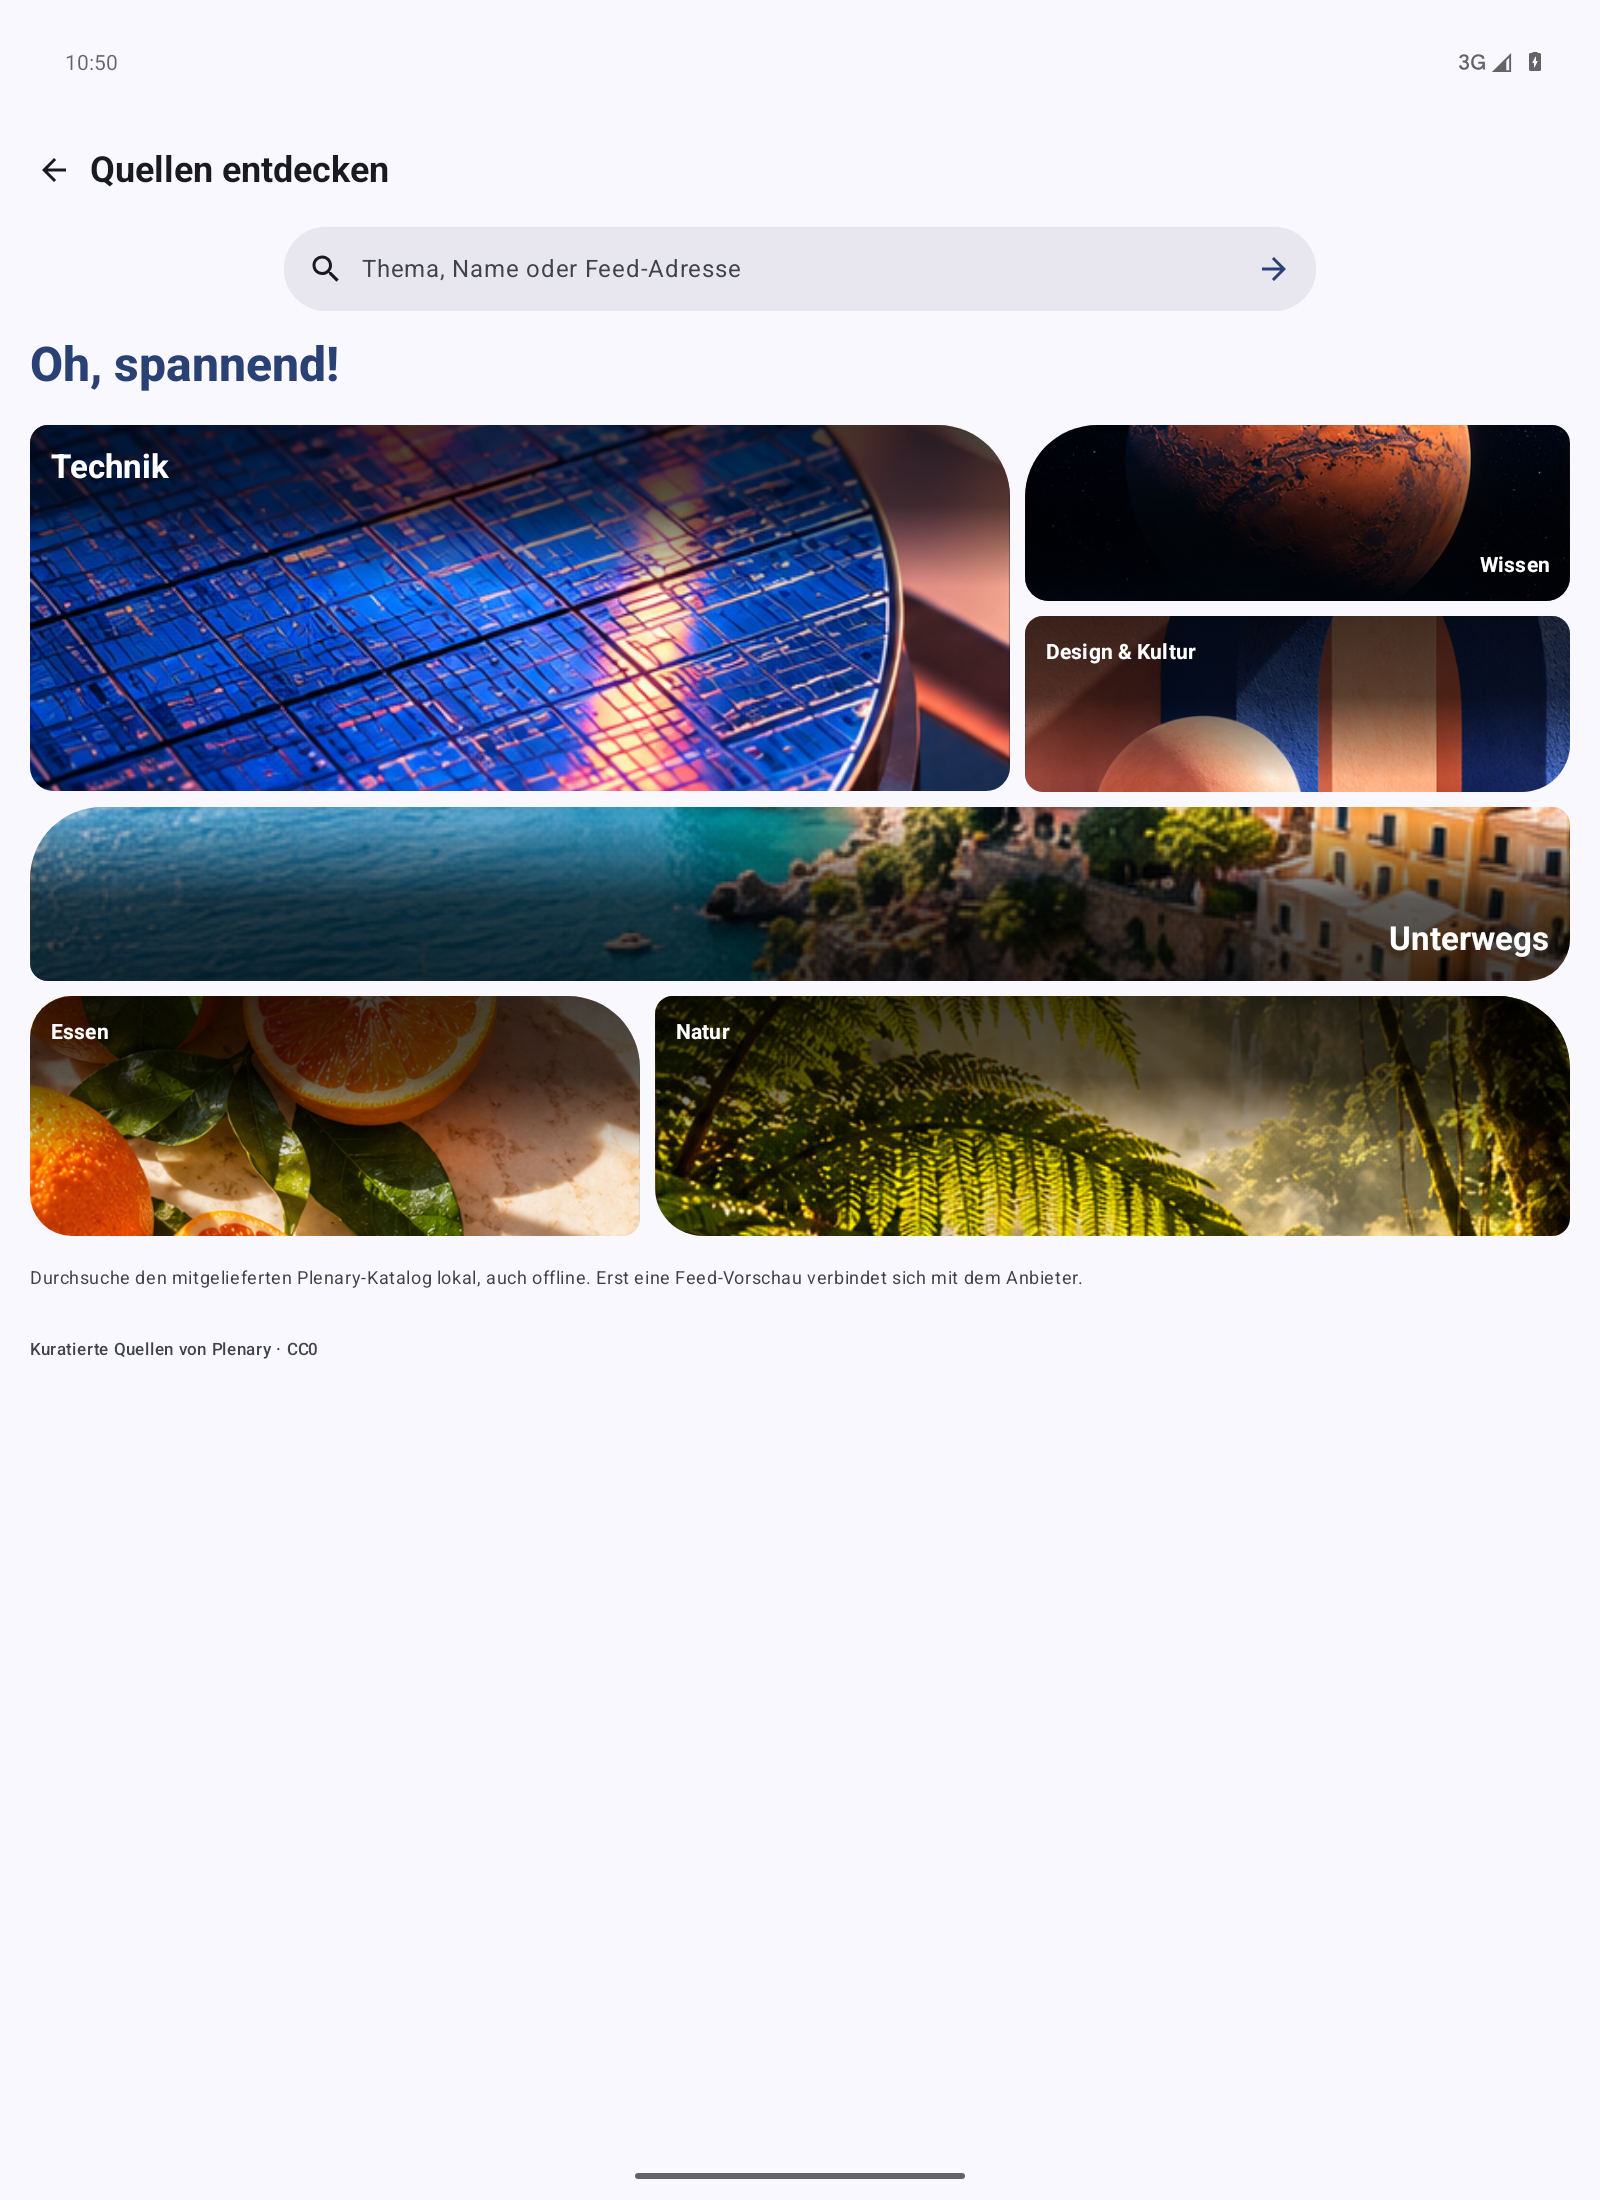
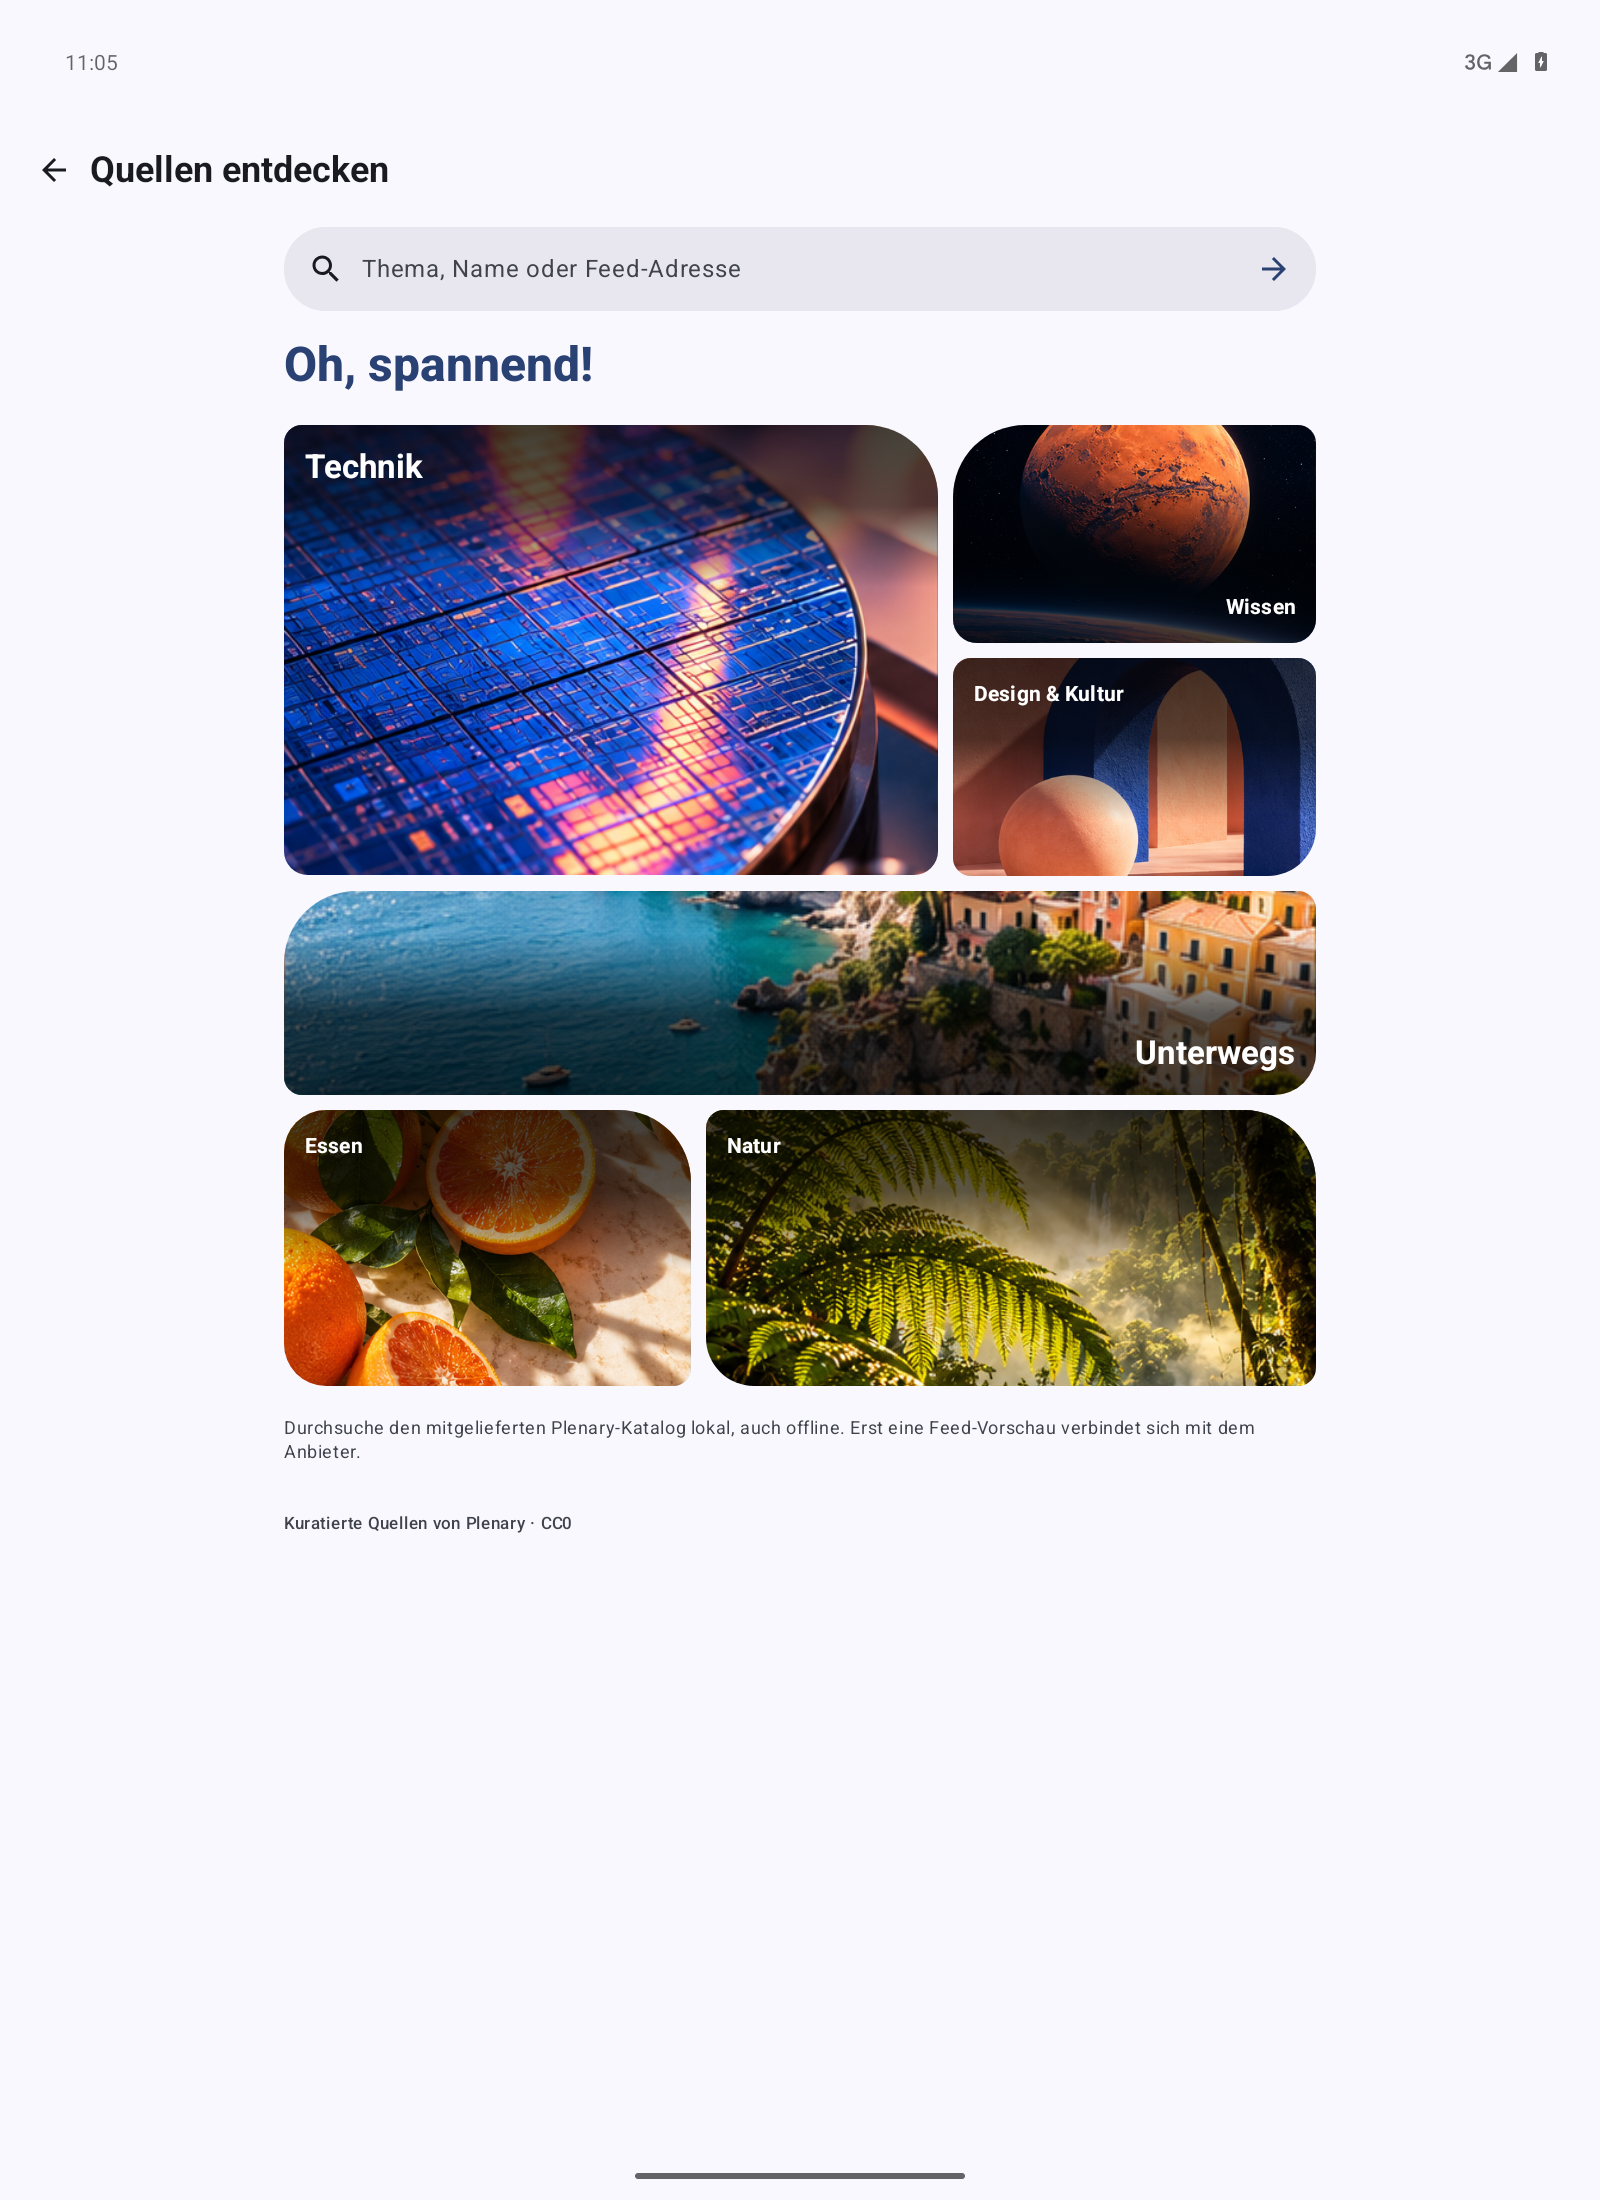
fix(feeds): Align tablet discovery with the search bar
Center the discovery mosaic, heading and footer within the same maximum
width and side padding as the search field. Increase tablet photo heights
to keep the images from appearing stretched across the screen.

Keep the adaptive results grid wide and preserve the compact phone layout.
Update the catalog contract and native tablet preview.

diff --git a/app/src/main/java/dev/sk2andy/materialbrowser/ui/feeds/FeedCatalogScreen.kt b/app/src/main/java/dev/sk2andy/materialbrowser/ui/feeds/FeedCatalogScreen.kt
@@ -204,6 +204,7 @@ internal fun FeedCatalogScreen(
             Modifier.fillMaxSize().statusBarsPadding().navigationBarsPadding().imePadding()
         ) {
             val fontScale = LocalDensity.current.fontScale.coerceIn(1f, 1.6f)
+            val discoveryMaxWidth = 720.dp
             val columns =
                 if (maxWidth >= 1000.dp * fontScale) 3
                 else if (maxWidth >= 640.dp * fontScale) 2 else 1
@@ -232,7 +233,7 @@ internal fun FeedCatalogScreen(
                         )
                     }
                     Column(
-                        Modifier.widthIn(max = 720.dp)
+                        Modifier.widthIn(max = discoveryMaxWidth)
                             .fillMaxWidth()
                             .align(Alignment.CenterHorizontally)
                             .padding(horizontal = 16.dp)
@@ -278,9 +279,21 @@ internal fun FeedCatalogScreen(
                     LazyVerticalGrid(
                         columns = GridCells.Fixed(columns),
                         state = gridState,
-                        modifier = Modifier.weight(1f).testTag("feed_catalog_results"),
+                        modifier =
+                            Modifier.widthIn(
+                                    max = if (appliedQuery == null) discoveryMaxWidth else 1200.dp
+                                )
+                                .fillMaxWidth()
+                                .align(Alignment.CenterHorizontally)
+                                .weight(1f)
+                                .testTag("feed_catalog_results"),
                         contentPadding =
-                            PaddingValues(start = 20.dp, end = 20.dp, bottom = 24.dp, top = 8.dp),
+                            PaddingValues(
+                                start = if (appliedQuery == null) 16.dp else 20.dp,
+                                end = if (appliedQuery == null) 16.dp else 20.dp,
+                                bottom = 24.dp,
+                                top = 8.dp,
+                            ),
                         horizontalArrangement = Arrangement.spacedBy(12.dp),
                         verticalArrangement = Arrangement.spacedBy(12.dp),
                     ) {

diff --git a/app/src/main/java/dev/sk2andy/materialbrowser/ui/feeds/FeedCatalogTopicCard.kt b/app/src/main/java/dev/sk2andy/materialbrowser/ui/feeds/FeedCatalogTopicCard.kt
@@ -80,7 +80,7 @@ internal fun FeedCatalogTopics(columns: Int, onTopicSelected: (FeedCatalogTopic)
                 Tile(it, 160.dp * textScale, Modifier.fillMaxWidth())
             }
         } else {
-            val leadHeight = if (large) 244.dp else 214.dp
+            val leadHeight = if (large) 300.dp else 214.dp
             Row(Modifier.fillMaxWidth(), horizontalArrangement = Arrangement.spacedBy(gap)) {
                 Tile(0, leadHeight, Modifier.weight(1.8f))
                 Column(Modifier.weight(1f), verticalArrangement = Arrangement.spacedBy(gap)) {
@@ -88,9 +88,9 @@ internal fun FeedCatalogTopics(columns: Int, onTopicSelected: (FeedCatalogTopic)
                     Tile(2, (leadHeight - gap) / 2, Modifier.fillMaxWidth())
                 }
             }
-            Tile(4, if (large) 116.dp else 92.dp, Modifier.fillMaxWidth())
+            Tile(4, if (large) 136.dp else 92.dp, Modifier.fillMaxWidth())
             Row(Modifier.fillMaxWidth(), horizontalArrangement = Arrangement.spacedBy(gap)) {
-                val height = if (large) 160.dp else 128.dp
+                val height = if (large) 184.dp else 128.dp
                 Tile(3, height, Modifier.weight(1f))
                 Tile(5, height, Modifier.weight(1.5f))
             }

diff --git a/docs/feeds/catalog.md b/docs/feeds/catalog.md
@@ -9,6 +9,7 @@
 | Coverage | A curated starting set, not the entire web. Golem is absent in this pinned list; an empty result explains address entry in the search field. New catalogs can be added later through the focused catalog adapter |
 | Metadata | Plenary does not reliably specify language or blog/news type. Do not infer language from country or show filters that cannot work. Preserve international text and source descriptions |
 | Topics | Six topic groups in a photo mosaic: one tall lead image beside two stacked details, a full-width panorama and two unequal bottom cards. Photos fill asymmetric rounded silhouettes; white titles overlay a dark gradient scrim. Pressed corners use theme spatial springs, respecting reduced motion. All six topics fit a regular phone; large text uses readable single-column cards with scrolling |
+| Tablet layout | Discovery heading, mosaic and footer share the search bar’s centered 720dp outer width and 16dp side padding. Tablet cards are taller to preserve photo proportions; search results retain the wider adaptive grid. These dimensions are Candy design choices |
 | Images | One bundled six-scene atlas, drawn by source region. No remote image requests. Labels/colors follow current Candy theme; mosaic proportions and accessible single-column layouts adapt to width and text scale |
 | Preview | Original publisher feed preview; network only on preview/open/refresh. Subscription remains explicit and supports folders; manual addresses always available |
 | Restoration | In normal profiles, submitted query/topic and typed draft survive recreation; private drafts stay in memory only. Restored explicit searches read the local catalog again. Source payloads stay out of the saved-state Bundle |
